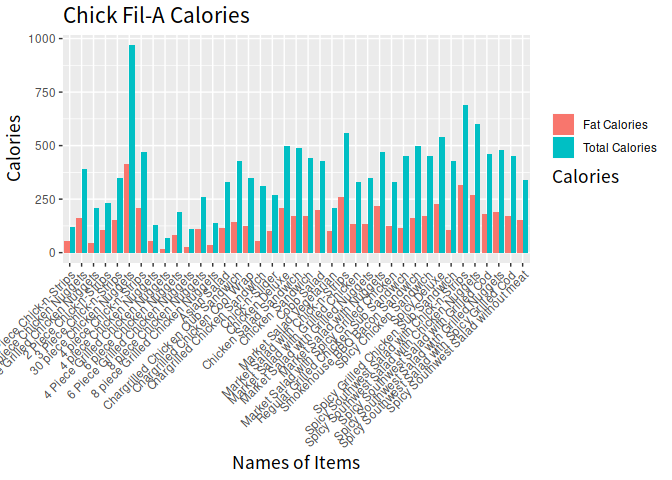
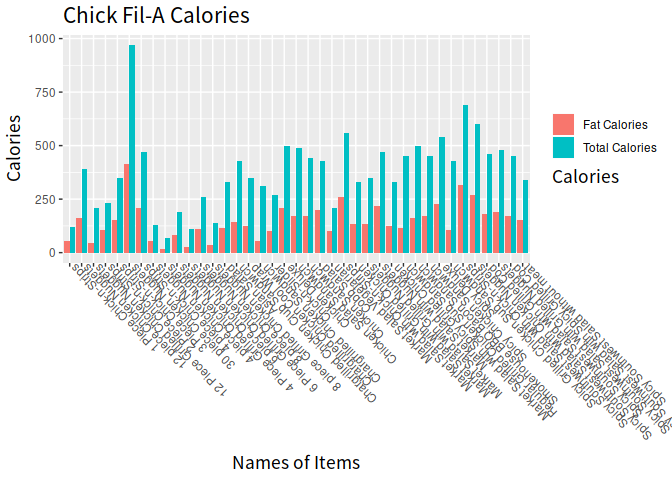
change plots

Changed region(s): [[0.0, 0.5312, 1.0, 0.9375]]

diff --git a/codes/data_week_21_fastfood_Analysis.md b/codes/data_week_21_fastfood_Analysis.md
@@ -163,7 +163,7 @@ p1 +
   labs(title = "Chick Fil-A Calories")+
   scale_color_discrete(labels = c("Total", "Calories from fat"))+
   theme(title = element_text(family = "WenQuanYi", size = 13),
-        axis.text.x = element_text(angle =45, hjust = 1))+
+        axis.text.x = element_text(angle =135, hjust = 1))+
   guides(fill=guide_legend(title="Calories", title.position = "bottom"))+
   scale_fill_discrete(labels = c("Fat Calories", "Total Calories"))
 ```
@@ -187,7 +187,9 @@ p2 <- ff_plot2 %>% ggplot(aes(x = restaurant, y = levels, fill = Ingredients))
 p2 +
   geom_bar(position="dodge", stat="identity")+
   labs(x = "Restaurants", y="Levels", title = "Which Restaurant more healthier?")+
-  scale_fill_discrete(labels = c("Average Calories", "Average Protein", "Average Total Carb"))
+  scale_fill_discrete(labels = c("Average Calories", "Average Protein", "Average Total Carb"))+
+  theme(title = element_text(family = "WenQuanYi", size = 13),
+        axis.text.x = element_text(angle =45, hjust = 1))
 ```
 
 ![](data_week_21_fastfood_Analysis_files/figure-markdown_github/unnamed-chunk-2-1.png)
